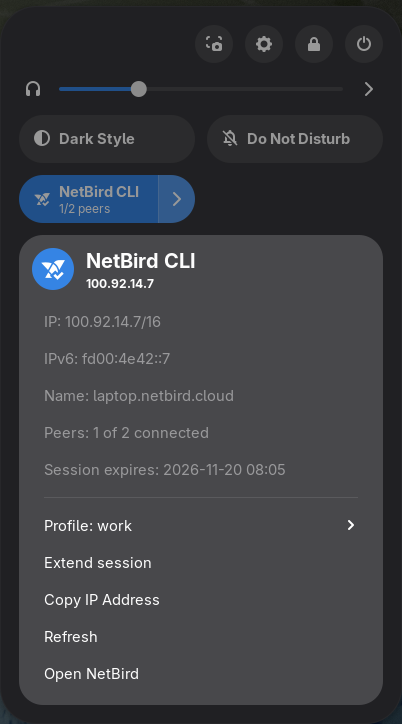
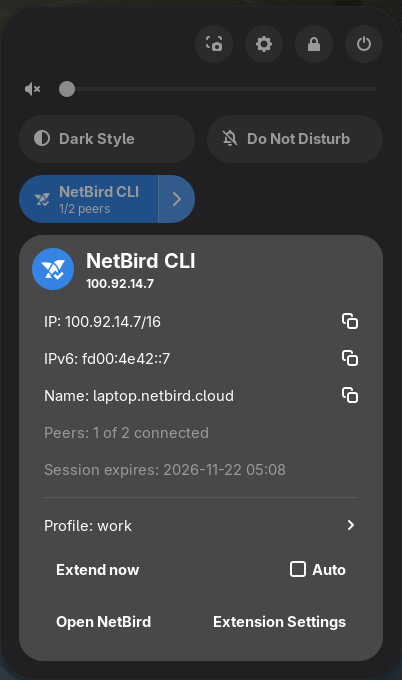
feat: compact Quick Settings menu
- IP, IPv6 and name rows copy their value on click (copy icon),
  replacing the Copy IP Address item
- "Extend now" button and an "Auto" checkbox for the auto-extend
  setting share one row
- Open NetBird and Extension Settings are buttons on one row
- Drop Refresh: the menu already refreshes when opened

diff --git a/extension.js b/extension.js
@@ -2,6 +2,7 @@
 //
 // NetBird Quick Settings toggle. Drives the `netbird` CLI.
 
+import Clutter from 'gi://Clutter';
 import GObject from 'gi://GObject';
 import GLib from 'gi://GLib';
 import Gio from 'gi://Gio';
@@ -67,7 +68,10 @@ class NetbirdToggleImpl extends QuickSettings.QuickMenuToggle {
 
         this._buildMenu();
         this.connect('clicked', () => this._onClicked());
-        this._settings.connectObject('changed::guard-gnome-vpn', () => this._syncVpnGuard(), this);
+        this._settings.connectObject(
+            'changed::guard-gnome-vpn', () => this._syncVpnGuard(),
+            'changed::auto-extend', () => this._syncAutoExtendItem(),
+            this);
         this._syncVpnGuard();
         this.refresh();
     }
@@ -78,9 +82,24 @@ class NetbirdToggleImpl extends QuickSettings.QuickMenuToggle {
         this._infoSection = new PopupMenu.PopupMenuSection();
         this.menu.addMenuItem(this._infoSection);
         this._infoItems = {};
+        // Clicking an address or name row copies its value.
+        this._copyValues = {};
+        const copyable = ['ip', 'ipv6', 'fqdn'];
         for (const key of ['ip', 'ipv6', 'fqdn', 'peers', 'expiry', 'error']) {
-            const item = new PopupMenu.PopupMenuItem('', {reactive: false});
+            const reactive = copyable.includes(key);
+            const item = new PopupMenu.PopupMenuItem('', {reactive});
             item.visible = false;
+            if (reactive) {
+                item.label.x_expand = true;
+                item.add_child(new St.Icon({
+                    icon_name: 'edit-copy-symbolic',
+                    style_class: 'popup-menu-icon',
+                }));
+                item.connect('activate', () => {
+                    St.Clipboard.get_default().set_text(
+                        St.ClipboardType.CLIPBOARD, this._copyValues[key] ?? '');
+                });
+            }
             this._infoItems[key] = item;
             this._infoSection.addMenuItem(item);
         }
@@ -95,18 +114,67 @@ class NetbirdToggleImpl extends QuickSettings.QuickMenuToggle {
                 this._loadProfiles();
         });
 
-        this._extendItem = this.menu.addAction('Extend session', () => this._runAction('extend'));
-        this._copyIpItem = this.menu.addAction('Copy IP Address', () => {
-            St.Clipboard.get_default().set_text(
-                St.ClipboardType.CLIPBOARD, this._ipAddress);
-            this.menu.close();
+        // Session row: extend now on the left, auto-extend checkbox on the right.
+        this._extendItem = new PopupMenu.PopupBaseMenuItem({reactive: false, can_focus: false});
+        // Non-reactive items are drawn greyed out; this one holds live buttons.
+        this._extendItem.remove_style_pseudo_class('insensitive');
+        this.menu.addMenuItem(this._extendItem);
+        const extendBox = new St.BoxLayout({x_expand: true});
+        this._extendItem.add_child(extendBox);
+        this._extendNowButton = new St.Button({
+            style_class: 'button',
+            style: 'padding: 6px 12px;',
+            label: 'Extend now',
+            can_focus: true,
+            x_expand: true,
+            x_align: Clutter.ActorAlign.START,
         });
-        this._copyIpItem.visible = false;
-        this.menu.addAction('Refresh', () => this.refresh());
-        this._openItem = this.menu.addAction('Open NetBird', () => this._openPrefs('home'));
-        this._openItem.visible = Main.sessionMode.allowSettings;
-        this._prefsItem = this.menu.addAction('Extension Settings', () => this._openPrefs('extension'));
-        this._prefsItem.visible = Main.sessionMode.allowSettings;
+        this._extendNowButton.connect('clicked', () => this._runAction('extend'));
+        extendBox.add_child(this._extendNowButton);
+        this._autoExtendIcon = new St.Icon({style_class: 'popup-menu-icon'});
+        const autoBox = new St.BoxLayout({style: 'spacing: 6px;'});
+        autoBox.add_child(this._autoExtendIcon);
+        autoBox.add_child(new St.Label({text: 'Auto', y_align: Clutter.ActorAlign.CENTER}));
+        this._autoExtendButton = new St.Button({
+            style_class: 'button',
+            style: 'padding: 6px 12px;',
+            child: autoBox,
+            can_focus: true,
+            accessible_name: 'Auto-extend session',
+            x_align: Clutter.ActorAlign.END,
+        });
+        this._autoExtendButton.connect('clicked', () => {
+            this._settings.set_boolean('auto-extend', !this._settings.get_boolean('auto-extend'));
+        });
+        extendBox.add_child(this._autoExtendButton);
+        this._syncAutoExtendItem();
+
+        // Window shortcuts share one row.
+        const linksItem = new PopupMenu.PopupBaseMenuItem({reactive: false, can_focus: false});
+        const linksBox = new St.BoxLayout({x_expand: true});
+        for (const [label, page, align] of [
+            ['Open NetBird', 'home', Clutter.ActorAlign.START],
+            ['Extension Settings', 'extension', Clutter.ActorAlign.END],
+        ]) {
+            const button = new St.Button({
+                style_class: 'button',
+                style: 'padding: 6px 12px;',
+                label,
+                can_focus: true,
+                x_expand: true,
+                x_align: align,
+            });
+            button.connect('clicked', () => this._openPrefs(page));
+            linksBox.add_child(button);
+        }
+        linksItem.add_child(linksBox);
+        linksItem.visible = Main.sessionMode.allowSettings;
+        this.menu.addMenuItem(linksItem);
+    }
+
+    _syncAutoExtendItem() {
+        this._autoExtendIcon.icon_name = this._settings.get_boolean('auto-extend')
+            ? 'checkbox-checked-symbolic' : 'checkbox-symbolic';
     }
 
     _openPrefs(page) {
@@ -198,6 +266,11 @@ class NetbirdToggleImpl extends QuickSettings.QuickMenuToggle {
 
         const connected = this.isConnected;
         this._ipAddress = connected && data?.netbirdIp ? hostAddress(data.netbirdIp) : '';
+        this._copyValues = {
+            ip: this._ipAddress,
+            ipv6: connected && data?.netbirdIpv6 ? hostAddress(data.netbirdIpv6) : '',
+            fqdn: connected ? data?.fqdn ?? '' : '',
+        };
         const headerSubtitle = this._ipAddress || statusLabel;
         this.menu.setHeader(gicon, 'NetBird CLI', headerSubtitle);
 
@@ -217,8 +290,7 @@ class NetbirdToggleImpl extends QuickSettings.QuickMenuToggle {
             this._profilesDisabled = false;
         this._profileMenu.visible = this._status !== Status.UNAVAILABLE && !this._profilesDisabled;
         this._extendItem.visible = Boolean(expiry);
-        this._extendItem.reactive = !this._pendingAction;
-        this._copyIpItem.visible = Boolean(this._ipAddress);
+        this._extendNowButton.reactive = !this._pendingAction;
     }
 
     _setInfo(key, label, value) {

diff --git a/README.md b/README.md
@@ -11,9 +11,9 @@ Quick Settings:
 
 - **Toggle** runs `netbird up` / `netbird down`; subtitle shows connected
   peers. Click again while "Connecting…" to abort.
-- **Menu**: IP (click *Copy IP Address*), IPv6, FQDN, peers, session expiry,
-  profile switcher, *Extend session*, Refresh, *Open NetBird*,
-  *Extension Settings*
+- **Menu**: IP, IPv6 and FQDN (click to copy), peers, session expiry,
+  profile switcher, *Extend now* with an *Auto* checkbox for auto-extend,
+  and *Open NetBird* / *Extension Settings* buttons
 - **Session expiry**: warning N minutes before the SSO session expires, with
   an *Extend session* action (`netbird login --extend`); a notice with a
   *Sign In* action when the session has expired
